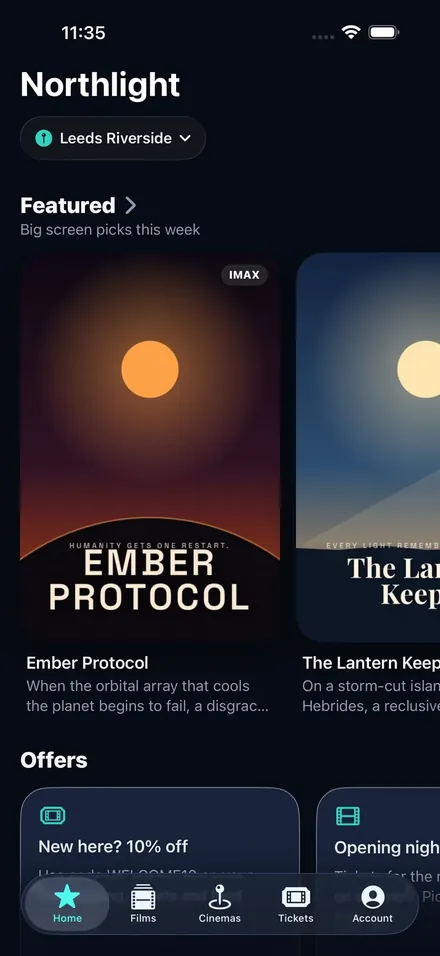
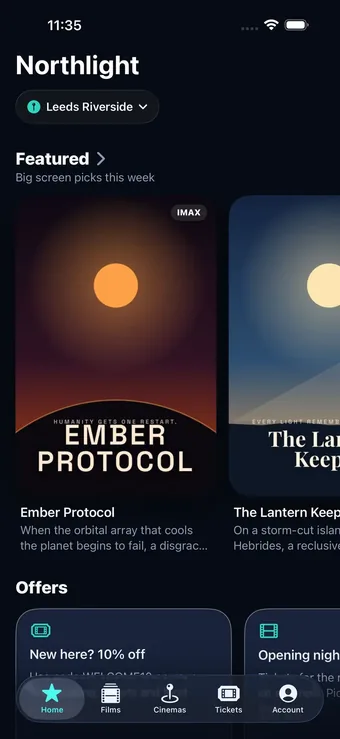
Marketing page: whole pictures in the nav cards, no blue band, plain checks
- Nav cards no longer crop through screenshots: the booking app card shows a
  phone rising from the panel, the seat map card a small drawing of the
  226-seat layout, and the portal card a release card (palette and contrast
  result) instead of the app's home screen. All three panels share a height.
- The portal section's blue band is gone; the window is white again.
- Passed contrast checks are no longer struck through (the kit's checklist
  draws the strike as ::after, which the earlier rule missed).
- A click on a menu card lets the panel close (focus held it open).

Claude-Session: https://claude.ai/code/session_01N7UCKMXXqUDas7HYbnDuM1

diff --git a/site/index.html b/site/index.html
@@ -46,7 +46,7 @@
      deal: hero split, nav nav-cards, close close-word, footer footer-columns, rhythm dark-band, buttons pill,
            mark dots, ground sky, palette teal-on-paper, type onest, radius soft
      effect: grain-gradient in the hero frame (behind the phone); card ground: painterly-landscape (native bento)
-     grounds: portal bg-band, native bg-dots; seats on .ground-inverse (the dark band)
+     grounds: native bg-dots (portal plain, its blue band removed at the client's request); seats on .ground-inverse (the dark band)
      moments: pinned-chapters in #journey; the hero moment (liquid-type) is not listed by the split hero, so none
      name: Seatfold (coined, see names.json). Every app screen is a real CI simulator capture of the
      Northlight demo build; the seat map is drawn from shared/fixtures/layouts/curved.json. -->
@@ -61,17 +61,23 @@
         <div class="nav__menu">
           <div class="wrap grid">
             <a class="menu-card span-4" href="#portal">
-              <div class="panel menu-shot"><img class="frame__img" src="img/app-home-thumb.webp" width="440" height="956" loading="lazy" alt="The Northlight app home screen with featured films" style="--shot-y: 8%"></div>
+              <div class="panel menu-pic" role="img" aria-label="A draft release in the portal: its palette and six contrast checks passed">
+                <div class="ui menu-rel">
+                  <p class="menu-rel__t">Version 15 <span>Ready to publish</span></p>
+                  <p class="menu-rel__sw"><i style="--c:#060B14"></i><i style="--c:#111A2B"></i><i style="--c:#2DD4BF"></i><i style="--c:#B08A2E"></i><i style="--c:#4C9AFF"></i></p>
+                  <p class="menu-rel__ok">Contrast, WCAG 2.2 AA <b>6 of 6 pass</b></p>
+                </div>
+              </div>
               <span class="t-card">Operator portal</span>
               <span class="t-small muted">Brand, prices and menus for every cinema</span>
             </a>
             <a class="menu-card span-4" href="#journey">
-              <div class="panel menu-shot"><img class="frame__img" src="img/app-food-thumb.webp" width="440" height="956" loading="lazy" alt="The food and drink menu in the app" style="--shot-y: 6%"></div>
+              <div class="panel menu-pic"><div class="device device--menu"><img src="img/app-home-thumb.webp" width="340" height="739" loading="lazy" alt="The Northlight app home screen"></div></div>
               <span class="t-card">iPhone booking app</span>
               <span class="t-small muted">Seats, food and tickets in your name</span>
             </a>
             <a class="menu-card span-4" href="#seats">
-              <div class="panel menu-shot"><img class="frame__img" src="img/app-seat-selected-thumb.webp" width="440" height="956" loading="lazy" alt="Choosing two VIP beds on the seat map" style="--shot-y: 30%"></div>
+              <div class="panel menu-pic menu-pic--dark"><img class="menu-map" src="img/seatmap-mini.svg" width="1000" height="815" loading="lazy" alt="The 226-seat curved screen, two seats chosen"></div>
               <span class="t-card">Seat maps</span>
               <span class="t-small muted">Drawn from the layout of each screen</span>
             </a>
@@ -120,7 +126,7 @@
 
   <!-- APP-FRAME: the operator portal, big. List: the release history (window). Open: the draft release
        with its theme, palette and the WCAG contrast checks (checklist loops). -->
-  <section class="section bg-band" id="portal" aria-labelledby="portal-h">
+  <section class="section" id="portal" aria-labelledby="portal-h">
     <div class="wrap">
       <div class="grid">
         <h2 id="portal-h" class="span-6">One portal for every cinema you run</h2>

diff --git a/site/site.css b/site/site.css
@@ -19,8 +19,20 @@
 @media (max-width: 639px) { .hero .ly-float { display: none; } }
 
 /* nav cards: the captures crop to their point */
-.menu-shot { --p-h: 160px; background: #060b14 !important; }
-.menu-shot > img { object-fit: cover; object-position: 50% var(--shot-y, 0%); }
+/* nav cards: each picture whole on the lit ground (a phone rising from the foot, the portal's
+   release card, the seat map on the app's own dark ground), never a crop through a screen */
+.menu-pic { --p-h: 168px; height: var(--p-h); flex: none; display: flex; justify-content: center; align-items: flex-start; overflow: hidden; background: #c6d3df !important; }
+.menu-pic--dark { align-items: center; background: #060B14 !important; }
+.device--menu { width: 132px; margin-top: var(--s-5); flex: none; padding: 4px; border-radius: 20px; }
+.device--menu > img { border-radius: 16px; }
+.menu-map { height: 88%; width: auto; max-width: 90%; }
+.menu-rel { align-self: center; width: min(78%, 300px); display: grid; gap: 10px; padding: 14px 16px; border-radius: 12px; background: #fff; color: #1d2733; border: 1px solid rgb(0 0 0 / .1); font-size: 13px; }
+.menu-rel__t { display: flex; justify-content: space-between; font-weight: 500; }
+.menu-rel__t span { font-weight: 400; color: #06525c; }
+.menu-rel__sw { display: flex; gap: 6px; }
+.menu-rel__sw i { width: 22px; height: 22px; border-radius: 6px; background: var(--c); box-shadow: inset 0 0 0 1px rgb(0 0 0 / .12); }
+.menu-rel__ok { display: flex; justify-content: space-between; color: #4b5563; }
+.menu-rel__ok b { font-weight: 500; color: #1d2733; }
 
 /* ---------- app-frame (sections-library.md, the whole recipe) ---------- */
 .app.ui { display: grid; grid-template-columns: minmax(0, 5fr) minmax(0, 7fr); margin-top: var(--s-7); background: var(--u-bg); border: 1px solid var(--u-border); border-radius: var(--u-r); box-shadow: var(--u-shadow); }
@@ -165,7 +177,8 @@ main > section.section.section:is(.bg-band, .bg-dots):not(.section--hero) { disp
 @media (max-width: 1023px) { .seatmap__svg { flex: none; height: auto; aspect-ratio: 1000 / 850; } }
 
 /* contrast checks are passes, not finished to-dos: no strike-through */
-.rel .ui-check.is-done .ui-check__label { text-decoration: none; }
+.rel .ui-check.is-done .ui-check__label { color: var(--u-ink); }
+.rel .ui-check__label::after { display: none; }
 .rel__preview { align-items: flex-start; }
 .rel__preview .device { flex: none; }
 

diff --git a/site/site.js b/site/site.js
@@ -84,3 +84,6 @@ async function seatMap(svg) {
 
 const svg = document.querySelector('.seatmap__svg[data-layout]');
 if (svg) seatMap(svg).catch(() => {});
+
+// a click on a menu card moves to its section and lets the panel close (focus would hold it open)
+for (const a of document.querySelectorAll('.nav__menu a[href^="#"]')) a.addEventListener('click', () => a.blur());
